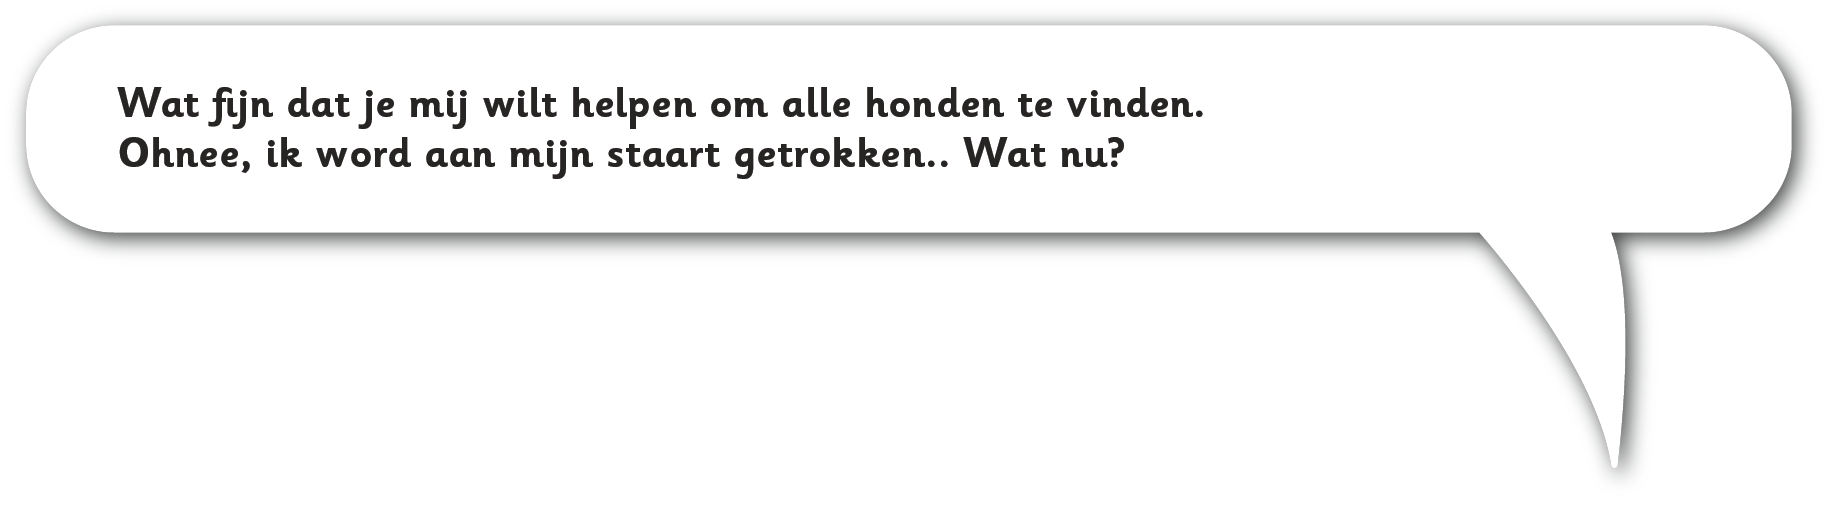
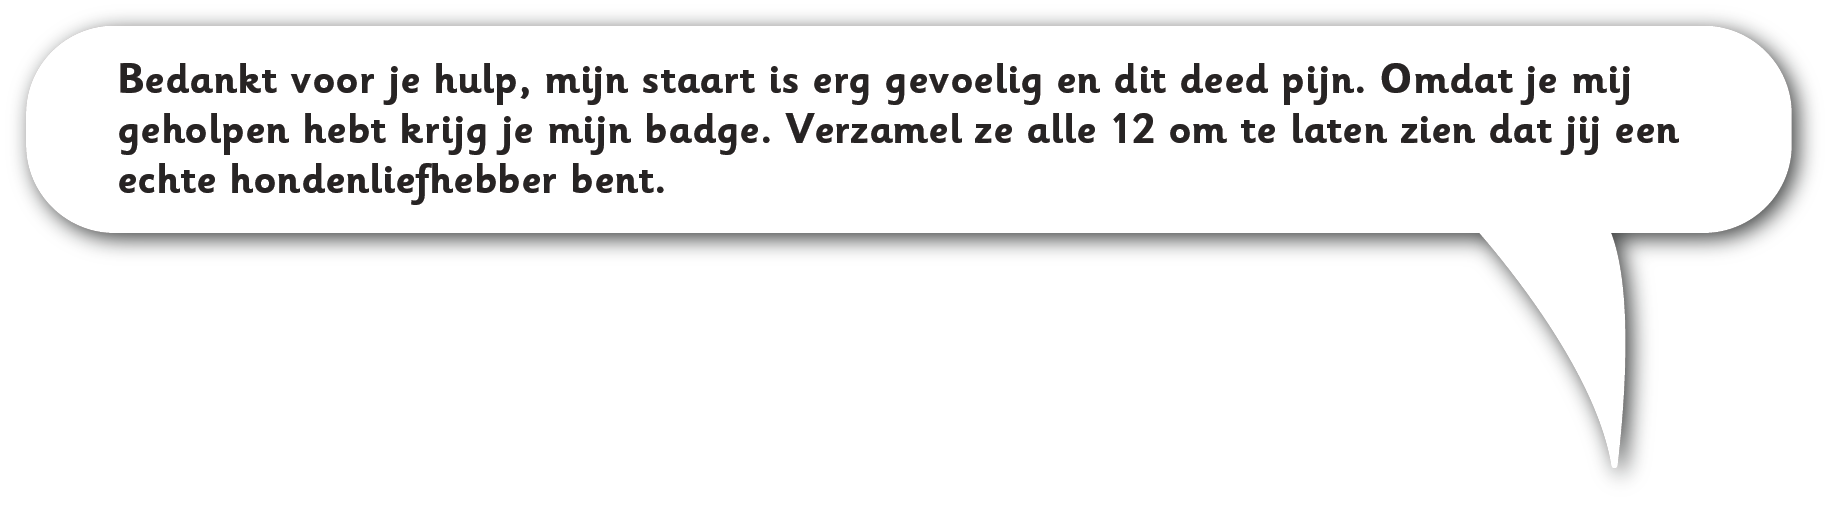
updated scene 1

Changed region(s): [[0.0623, 0.1188, 0.9349, 0.4158]]

diff --git a/src/scenes/Scene1.ts b/src/scenes/Scene1.ts
@@ -3,17 +3,18 @@ import Option1 from "@assets/images/scenario_1/option_1.png";
 import Option2 from "@assets/images/scenario_1/option_2.png";
 import Option3 from "@assets/images/scenario_1/option_3.png";
 import OptionStick from "@assets/images/world/option_stick.png";
-import StartText from "@assets/images/scenario_1/start_text.png";
+import StartDialog1 from "@assets/images/scenario_1/start_dialog_1.png";
+import StartDialog2 from "@assets/images/scenario_1/start_dialog_2.png";
 import EndText from "@assets/images/scenario_1/end_text.png";
 import EndDialog1 from "@assets/images/scenario_1/end_dialog_1.png";
-import EndDialog2 from "@assets/images/scenario_1/end_dialog_2.png";
 import GoodEmotion from "@assets/images/world/correct_option.png";
 import MixedEmotion from "@assets/images/world/almost_option.png";
 import BadEmotion from "@assets/images/world/incorrect_option.png";
 import ContinueButton from "@assets/images/UI/continue_button.png";
 import ReplayButton from "@assets/images/UI/replay_button.png";
 import Playground from "@assets/images/scenario_1/playground.png";
-import PlayerIdleSheet from "@assets/spritesheets/player/scenario/idle/character_idle2.png";
+import PlayerIdle1Sheet from "@assets/spritesheets/player/scenario/idle/character_idle.png";
+import PlayerIdle2Sheet from "@assets/spritesheets/player/scenario/idle/character_idle2.png";
 import PlayerIdleData from "@assets/spritesheets/player/scenario/idle/character_idle.json";
 import PlayerWalkSheet from "@assets/spritesheets/player//scenario/walk/character_walk.png";
 import PlayerWalkData from "@assets/spritesheets/player//scenario/walk/character_walk.json";
@@ -80,7 +81,9 @@ export default class Scene1 extends Scene implements SceneLifecycle {
 
     private dogEntity!: Sprite;
 
-    private playerIdle!: string;
+	private playerIdle1!: string;
+
+    private playerIdle2!: string;
 
 	private playerWalk!: string;
 
@@ -102,13 +105,13 @@ export default class Scene1 extends Scene implements SceneLifecycle {
 
 	private optionStick!: string;
 
-	private startText!: string;
+	private startDialog1!: string;
+
+	private startDialog2!: string;
 
 	private endText!: string;
 
 	private endDialog1!: string;
-
-	private endDialog2!: string;
 
 	private goodEmotion!: string;
 
@@ -131,7 +134,8 @@ export default class Scene1 extends Scene implements SceneLifecycle {
 	public init(): void {
 
 		//initializes variables, the string value has to be unique or phaser will reuse it in other scenes
-        this.playerIdle = "playeridle1";
+        this.playerIdle1 = "playeridle11";
+		this.playerIdle2 = "playeridle21";
 		this.playerWalk = "playerwalk1";
         this.playerPoint = "playerpoint1";
         this.playerShout = "playershout1";
@@ -142,10 +146,10 @@ export default class Scene1 extends Scene implements SceneLifecycle {
 		this.option2 = "option21";
 		this.option3 = "option31";
 		this.optionStick = "stick1";
-		this.startText = "starttext1";
+		this.startDialog1 = "startdialog11";
+		this.startDialog2 = "startdialog21";
 		this.endText = "endtext1";
 		this.endDialog1 = "enddialog11";
-		this.endDialog2 = "enddialog21"
 		this.goodEmotion = "goodemotion1";
 		this.mixedEmotion = "mixedemotion1"
 		this.badEmotion = "bademotion1";
@@ -175,14 +179,15 @@ export default class Scene1 extends Scene implements SceneLifecycle {
 		this.load.image(this.optionStick, OptionStick);	
 		this.load.image(this.continueButton,ContinueButton);
 		this.load.image(this.replayButton,ReplayButton);
-		this.load.image(this.startText,StartText);
+		this.load.image(this.startDialog1, StartDialog1);
+		this.load.image(this.startDialog2, StartDialog2);
 		this.load.image(this.endText, EndText);
 		this.load.image(this.endDialog1, EndDialog1);
-		this.load.image(this.endDialog2, EndDialog2);
 		this.load.image(this.goodEmotion,GoodEmotion);
 		this.load.image(this.mixedEmotion,MixedEmotion);
 		this.load.image(this.badEmotion,BadEmotion);
-        this.load.aseprite(this.playerIdle, PlayerIdleSheet, PlayerIdleData);
+        this.load.aseprite(this.playerIdle1, PlayerIdle1Sheet, PlayerIdleData);
+		this.load.aseprite(this.playerIdle2, PlayerIdle2Sheet, PlayerIdleData);
 		this.load.aseprite(this.playerWalk, PlayerWalkSheet, PlayerWalkData);
         this.load.aseprite(this.playerPoint, PlayerPointSheet, PlayerPointData);	
         this.load.aseprite(this.playerShout, PlayerShoutSheet, PlayerShoutData);
@@ -217,10 +222,10 @@ export default class Scene1 extends Scene implements SceneLifecycle {
 
 		//player entity
         this.anims.create({
-			key: this.playerIdle,
+			key: this.playerIdle1,
 			frameRate: 2,
 			frames: this.anims.generateFrameNumbers(
-				this.playerIdle,
+				this.playerIdle1,
 				{
 					start: 0,
 					end: 1,
@@ -232,12 +237,71 @@ export default class Scene1 extends Scene implements SceneLifecycle {
 		this.playerEntity = this.add.sprite(
 			700,
 			600,
-			this.playerIdle
+			this.playerIdle1
 		);
 		this.playerEntity.setDepth(1);
 		this.playerEntity
-			.play(this.playerIdle)
+			.play(this.playerIdle1)
 			.toggleFlipX()
+			.setScale(1);
+		
+		//dog animation
+		this.anims.create({
+			key: this.dogIdle,
+			frameRate: 2,
+			frames: this.anims.generateFrameNumbers(
+				this.dogIdle,
+				{
+					start: 0,
+					end: 1,
+				}
+			),
+			repeat: -1,
+		});	
+		//dog is being put on bully entity
+		this.bullyEntity = this.add.sprite(
+			1200,
+			700,
+			this.dogIdle
+		)
+		this.bullyEntity
+			.play(this.dogIdle)
+			.setScale(1);
+		
+		//first textbox with continue button
+		const startDialogImage1 = this.add.image(700,300,this.startDialog1).setScale(0.6);
+		const continuebutton1 = this.add.image(1200,300,this.continueButton).setScale(0.6).setInteractive({ useHandCursor: true, pixelPerfect: true });
+		continuebutton1.on("pointerdown", () => {
+			startDialogImage1.destroy();
+			continuebutton1.destroy()			
+			this.createChoice();				
+		});		
+	}
+
+	private createChoice(): void {	
+		//second textbox containing scenario	
+		const startDialogImage2 = this.add.image(700,300,this.startDialog2).setScale(0.6);	
+		
+		//player entity to idle 2
+        this.anims.create({
+			key: this.playerIdle2,
+			frameRate: 2,
+			frames: this.anims.generateFrameNumbers(
+				this.playerIdle2,
+				{
+					start: 0,
+					end: 1,
+				}
+			),
+			repeat: -1,
+		});
+		
+		this.playerEntity.setTexture(
+			this.playerIdle2
+		);
+		this.playerEntity.setDepth(1);
+		this.playerEntity
+			.play(this.playerIdle2)
 			.setScale(1);
 		
 		//bully entity (bully and dog animation)
@@ -252,22 +316,16 @@ export default class Scene1 extends Scene implements SceneLifecycle {
 				}
 			),
 			repeat: -1,
-		});
-
-		this.bullyEntity = this.add.sprite(
-			1300,
-			550,
+		});	
+		this.bullyEntity.x = 1300;
+		this.bullyEntity.y = 550;
+		this.bullyEntity.setTexture(
 			this.bullyAndDog
 		);
 		this. bullyEntity
 			.play(this.bullyAndDog)
-			.setScale(1);
-			
-		this.createChoice();		
-	}
-
-	private createChoice(): void {
-		const startTextImage = this.add.image(600,200,this.startText).setScale(0.6);
+			.setScale(1);			
+		
 		//create stick 1 and sign 1, add movecomponents
 		const stick1 = this.add.image(500,1280, this.optionStick);
 		const stick1move = this.components.addComponent(
@@ -377,7 +435,7 @@ export default class Scene1 extends Scene implements SceneLifecycle {
 					y: stick3.y + 300,
 				});		
 				stick3move.velocity = 280;
-				startTextImage.destroy();
+				startDialogImage2.destroy();
 				this.createResult1();
 			});
 		button2
@@ -405,7 +463,7 @@ export default class Scene1 extends Scene implements SceneLifecycle {
 					y: stick3.y + 300,
 				});		
 				stick3move.velocity = 280;
-				startTextImage.destroy();
+				startDialogImage2.destroy();
 				this.createResult2();
 			});
 		button3
@@ -433,7 +491,7 @@ export default class Scene1 extends Scene implements SceneLifecycle {
 				});		
 				button2move.velocity = 280;
 				button3.disableInteractive();
-				startTextImage.destroy();
+				startDialogImage2.destroy();
 				this.createResult3();
 			});
 	}
@@ -510,13 +568,8 @@ export default class Scene1 extends Scene implements SceneLifecycle {
 		setTimeout(() => {
 			this.add.image(700,350,this.endDialog1).setScale(0.6);			
 			const continuebutton = this.add.image(1200,350,this.continueButton).setScale(0.6).setInteractive({ useHandCursor: true, pixelPerfect: true });
-			continuebutton.on("pointerdown", () => {
-				this.add.image(700,350,this.endDialog2).setScale(0.6);	
-				continuebutton.destroy();
-				const continuebutton2 = this.add.image(1200,350,this.continueButton).setScale(0.6).setInteractive({ useHandCursor: true, pixelPerfect: true });
-				continuebutton2.on("pointerdown", () => {
-					this.moveScene();
-				});
+			continuebutton.on("pointerdown", () => {				
+				this.moveScene();
 			});			
 		}, 4000);
 	}

diff --git a/src/scenes/Scene5.ts b/src/scenes/Scene5.ts
@@ -531,7 +531,7 @@ export default class Scene1 extends Scene implements SceneLifecycle {
 		setTimeout(() => {
 			this.add.image(600,130,this.mixedEmotion).setScale(0.6);
 			this.add.image(600,300,this.endText).setScale(0.6);					
-			const replaybutton = this.add.image(1090,420,this.replayButton).setScale(0.6).setInteractive({ useHandCursor: true, pixelPerfect: true });
+			const replaybutton = this.add.image(990,420,this.replayButton).setScale(0.6).setInteractive({ useHandCursor: true, pixelPerfect: true });
 					replaybutton.on("pointerdown", () => {
 						this.scene.restart();
 					});
@@ -569,7 +569,7 @@ export default class Scene1 extends Scene implements SceneLifecycle {
 			this.characterEntity.destroy();
 			this.add.image(600,130,this.goodEmotion).setScale(0.6);
 			this.add.image(600,300,this.endText).setScale(0.6);
-			const continuebutton = this.add.image(1090,420,this.continueButton).setScale(0.6).setInteractive({ useHandCursor: true, pixelPerfect: true });
+			const continuebutton = this.add.image(990,420,this.continueButton).setScale(0.6).setInteractive({ useHandCursor: true, pixelPerfect: true });
 			continuebutton.on("pointerdown", () => {
 				this.moveScene();
 			});
@@ -638,7 +638,7 @@ export default class Scene1 extends Scene implements SceneLifecycle {
 			setTimeout(() => {
 				this.add.image(600,130,this.badEmotion).setScale(0.6);
 					this.add.image(600,300,this.endText).setScale(0.6);					
-					const replaybutton = this.add.image(1090,420,this.replayButton).setScale(0.6).setInteractive({ useHandCursor: true, pixelPerfect: true });
+					const replaybutton = this.add.image(990,420,this.replayButton).setScale(0.6).setInteractive({ useHandCursor: true, pixelPerfect: true });
 					replaybutton.on("pointerdown", () => {
 						this.scene.restart();
 					});
